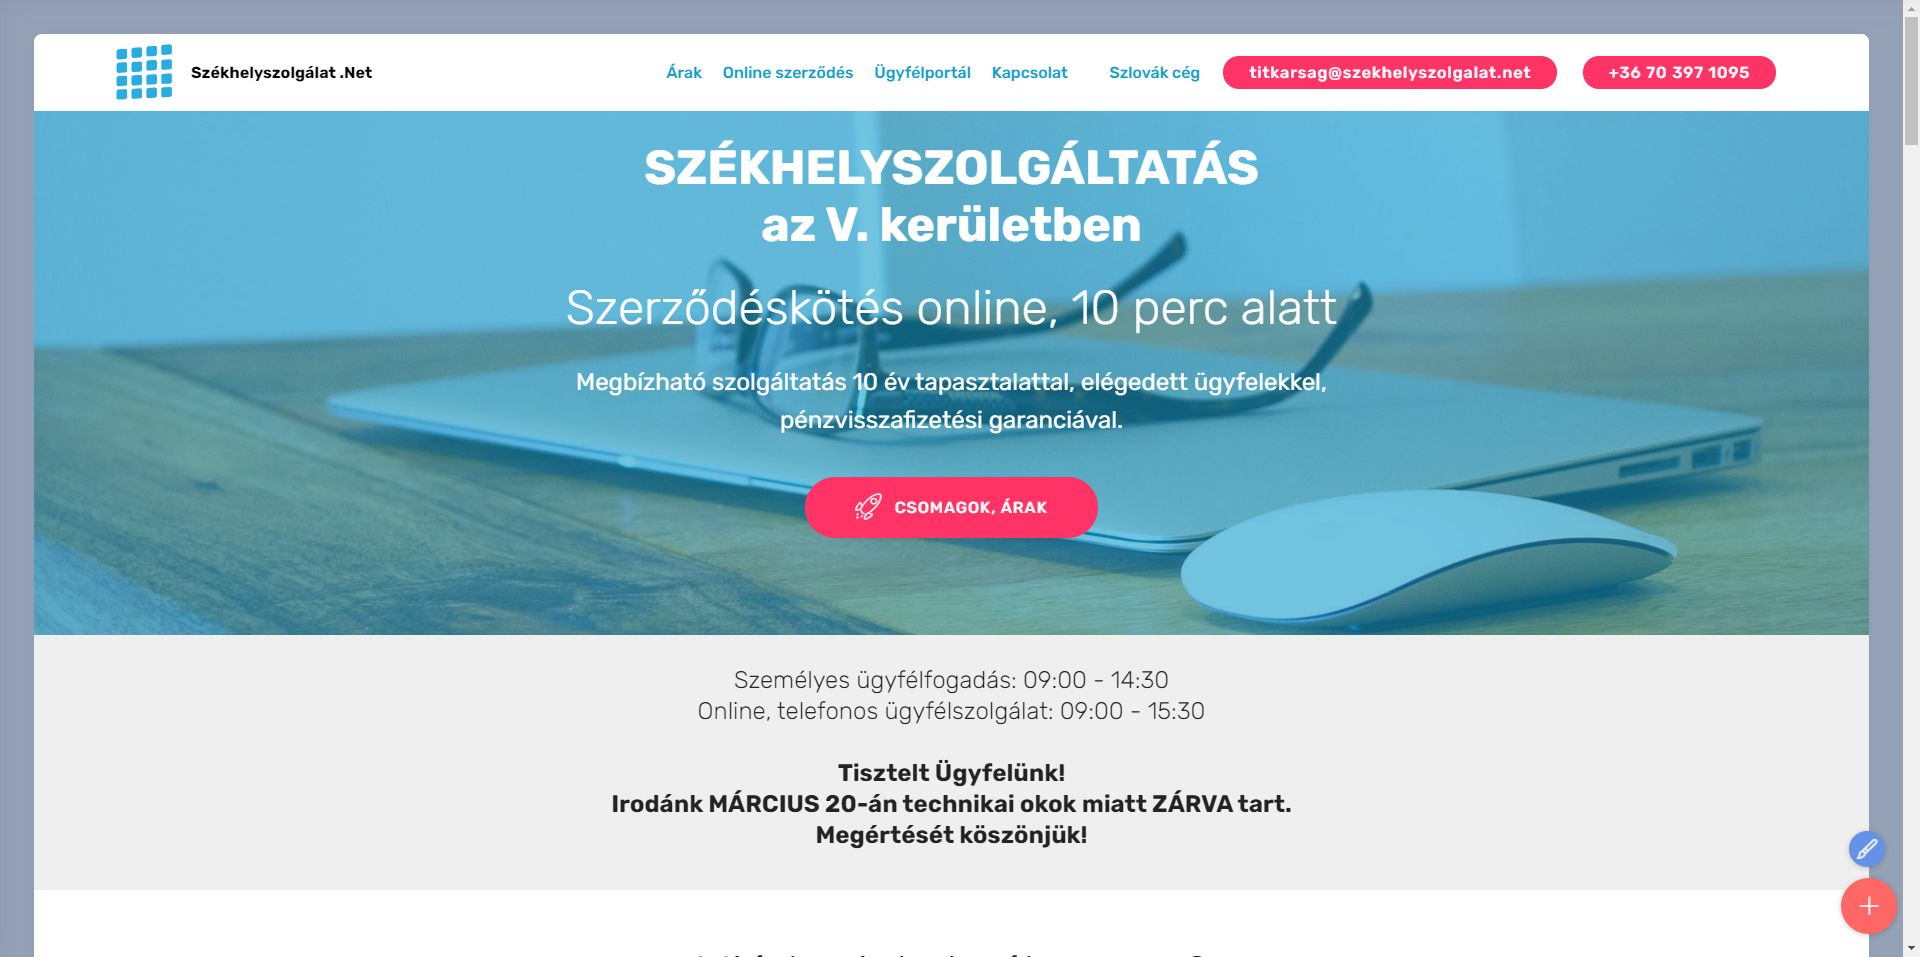
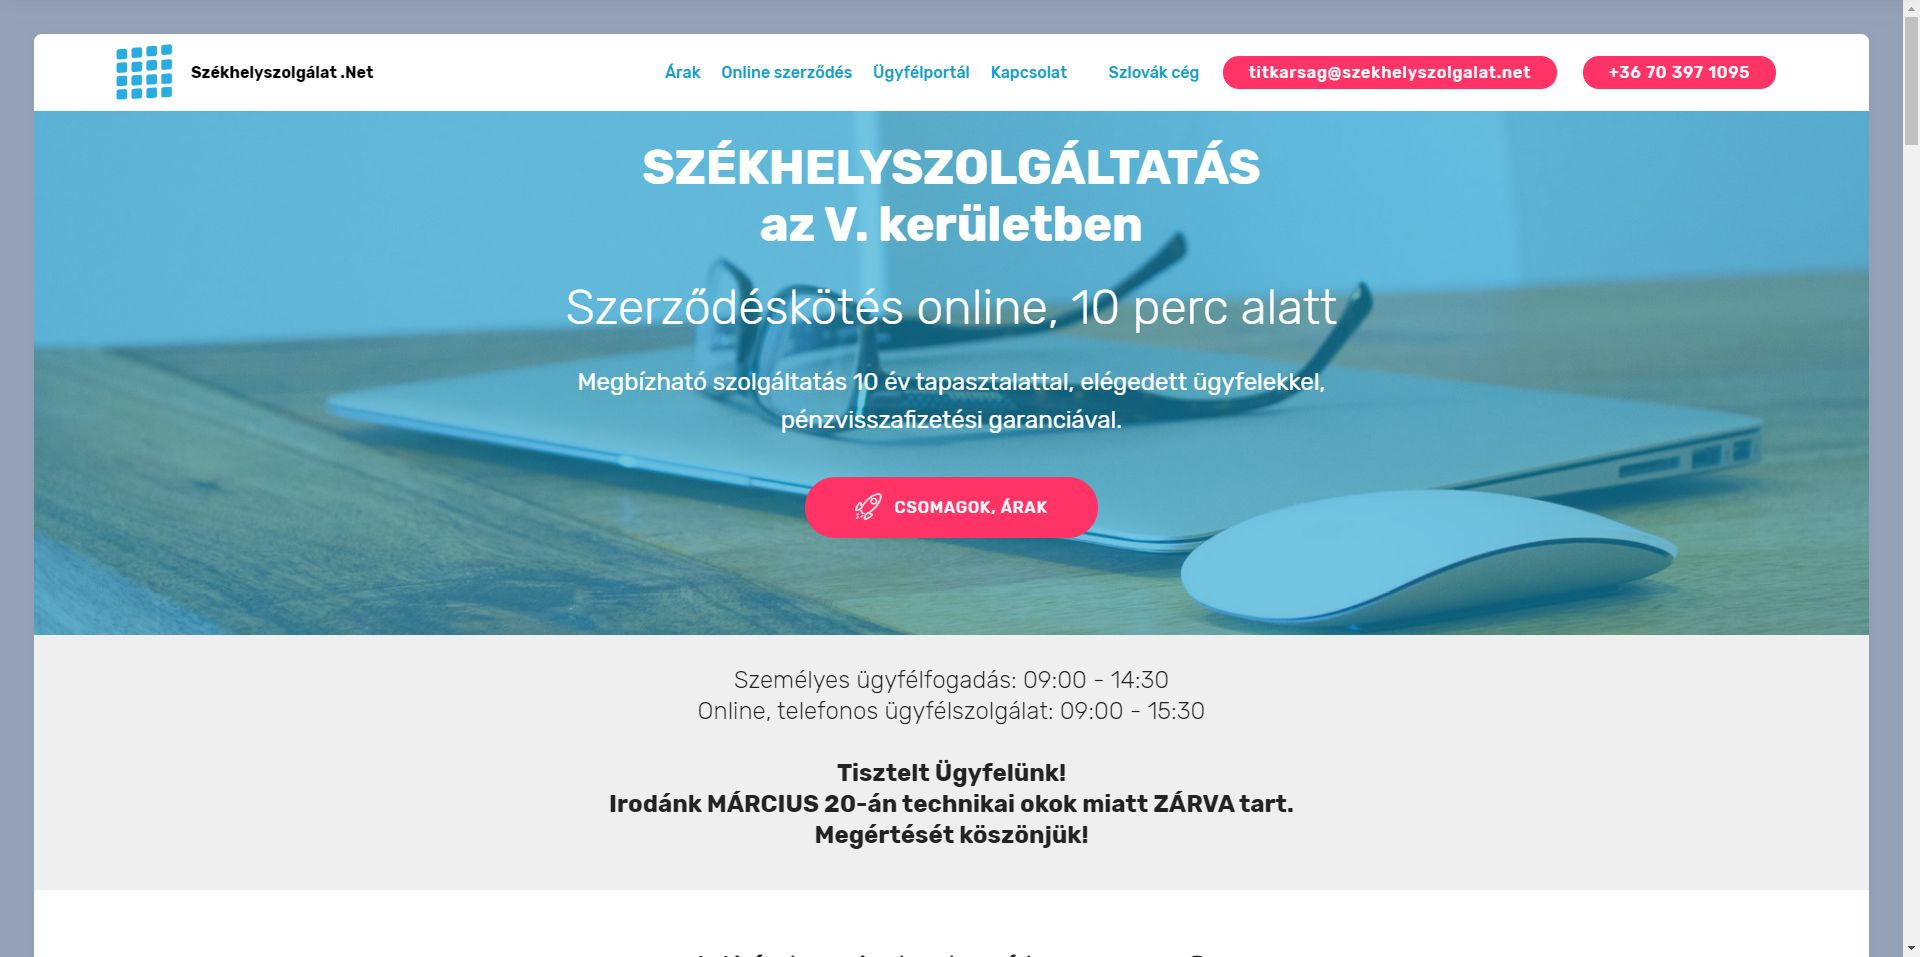
Add files via upload

diff --git a/index.html b/index.html
@@ -112,9 +112,7 @@
         <div class="justify-content-center row">
             <div class="media-container-column title col-12 col-md-10">
                 
-                <h3 class="mbr-section-subtitle align-right mbr-light mbr-white pb-3 mbr-fonts-style display-5">Személyes ügyfélfogadás: 09:00 - 14:30<br>Online, telefonos ügyfélszolgálat: 09:00 - 15:30<br><br><strong>Tisztelt Ügyfelünk!
-</strong><div><strong>Irodánk MÁRCIUS 20-án technikai okok miatt ZÁRVA tart.
-</strong></div><div><strong>Megértését köszönjük!</strong></div></h3>
+                <h3 class="mbr-section-subtitle align-right mbr-light mbr-white pb-3 mbr-fonts-style display-5">Személyes ügyfélfogadás: 09:00 - 14:30<br>Online, telefonos ügyfélszolgálat: 09:00 - 15:30<br></h3>
                 
                 
             </div>
@@ -476,7 +474,7 @@
         <div class="row">
             <div class="col-lg-8 mx-auto mbr-form" data-form-type="formoid">
 <!--Formbuilder Form-->
[2 lines of base64/hex data omitted]
 <div class="form-row">
 <div hidden="hidden" data-form-alert="" class="alert alert-success col-12">Köszönjük, hogy kitöltötte, munkatársunk hamarosan felveszi Önnel a kapcsolatot megadott elérhetőségein!</div>
 <div hidden="hidden" data-form-alert-danger="" class="alert alert-danger col-12">Oops...! some problem!</div>
